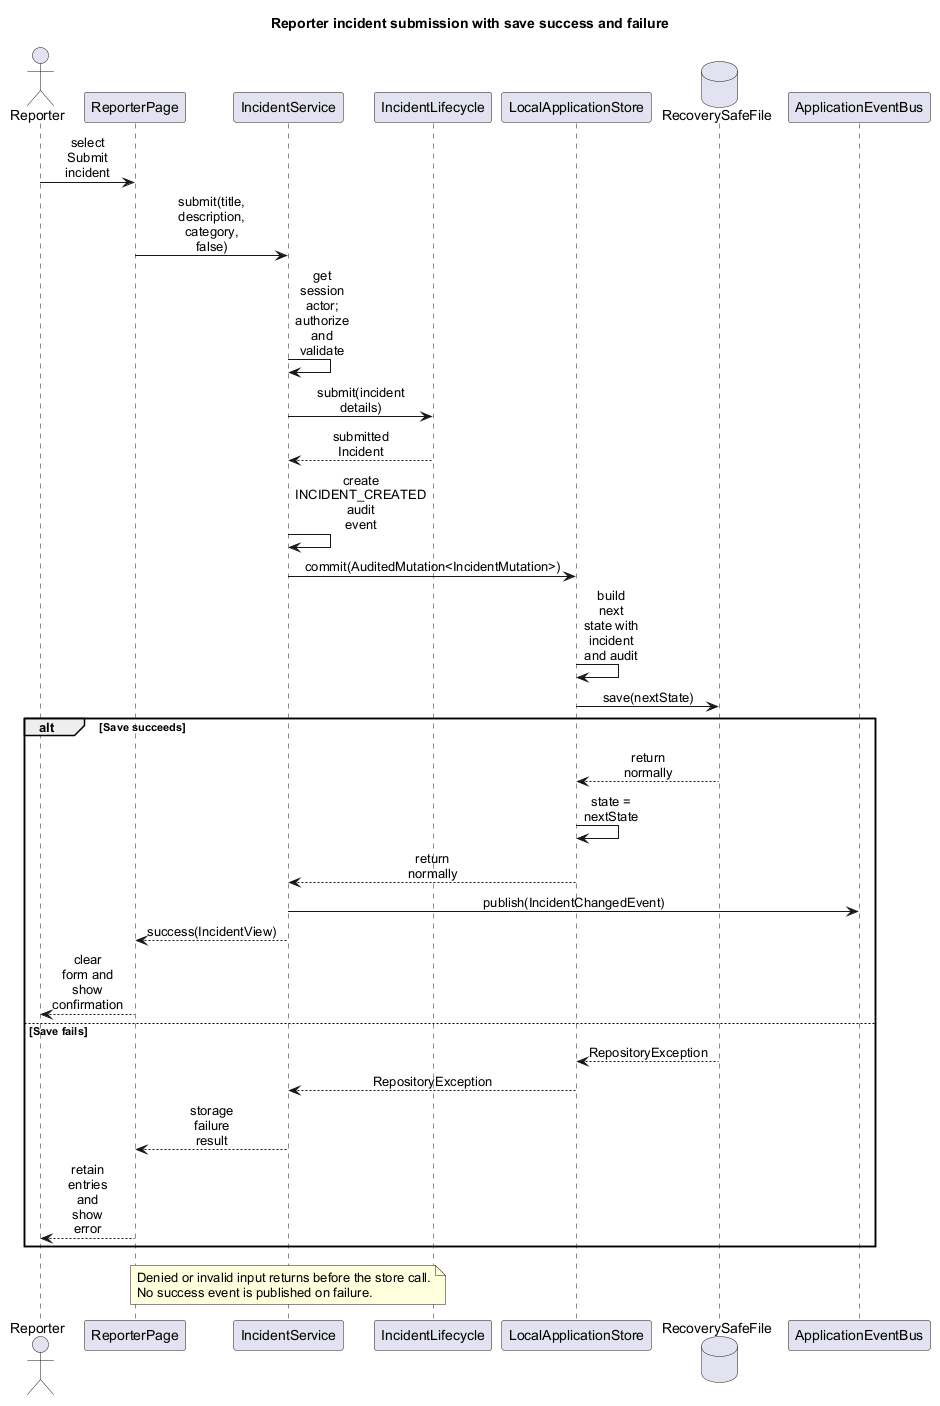
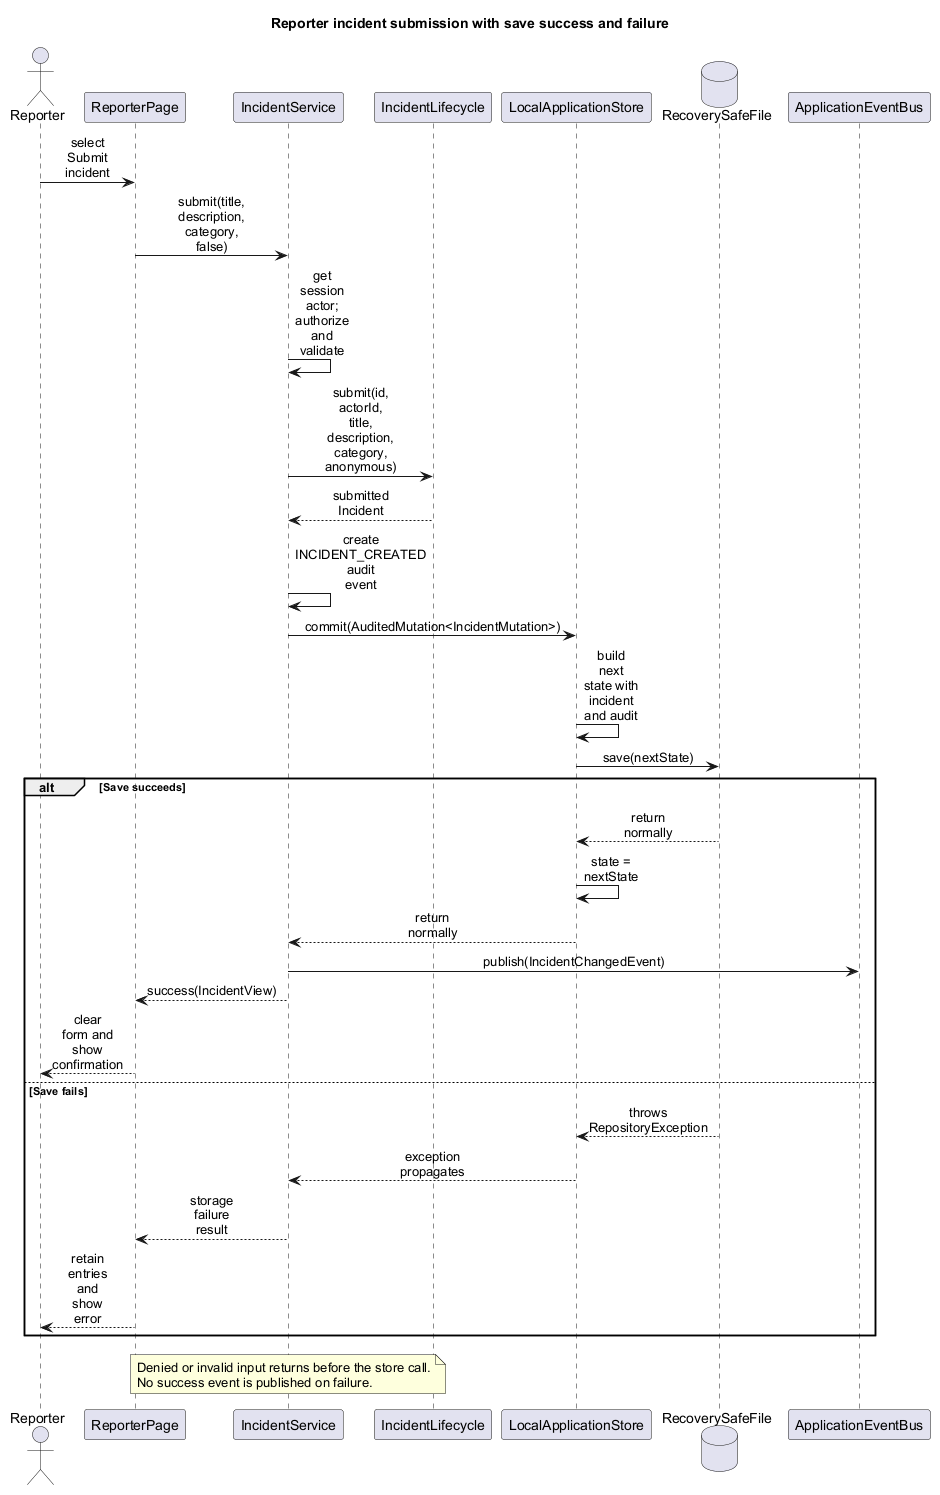
docs: correct architecture and submission diagrams

diff --git a/docs/DeveloperGuide.md b/docs/DeveloperGuide.md
@@ -106,8 +106,12 @@ jobs. Generated artifacts go under `build/` and are not source files.
 The diagram shows runtime collaboration. `ApplicationContext` assembles the
 shared services and storage once; the JavaFX shell and views call those
 services. Application services apply domain rules and use persistence
-interfaces. `LocalApplicationStore` implements those interfaces and writes one
-local aggregate file. Arrows indicate calls or wiring, not permission grants.
+interfaces. `LocalApplicationStore` implements the incident, account, and audit
+interfaces; its inner facets implement attachment and SLO interfaces. The
+local-file adapters persist application state in one aggregate file and
+attachment content in separate files. Solid arrows show
+runtime interactions or wiring; the dashed hollow arrow points toward the
+interfaces implemented by the adapters. Arrows do not grant permissions.
 
 - `com.company.incidentdesk.domain`: domain types, incident lifecycle, and SLO
   calculations.
